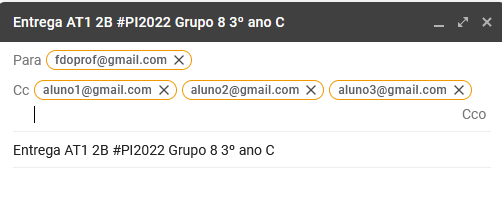
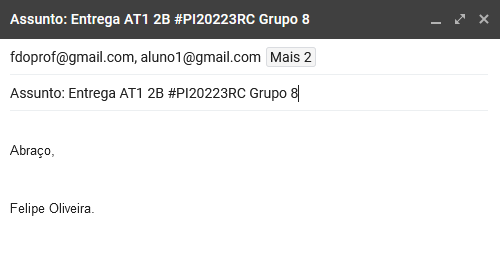
Atualuzação de envio e datas

diff --git a/courses/pi/index.md b/courses/pi/index.md
@@ -16,13 +16,13 @@ Atenção para as informações que constam no roteiro simplificado (veja em **d
 
 Os arquivos deverão ser enviados para o e-mail **fdoprof@gmail.com** colocando a seguinte informação no assunto do e-mail:
 
-Assunto: Entrega AT_N XB #PI2022 GRUPO SERIE
+Assunto: Entrega AT_N XB #PI2022SERIE GRUPO 
 
-Onde AT_N você irá substituir pelo número da atividade (e.g. AT1, AT2, AT3 ou ATF), XB você irá substituir pelo bimestre atual (e.g. 1B, 2B, 3B ou 4B), GRUPO você irá substituir pelo seu grupo e SERIE você irá substituir por sua série.
+Onde AT_N você irá substituir pelo número da atividade (e.g. AT1, AT2, AT3 ou ATF), XB você irá substituir pelo bimestre atual (e.g. 1B, 2B, 3B ou 4B), SERIE você irá substituir por sua série (2RB, 3RA ou 3RB) e  GRUPO você irá substituir pelo seu grupo.
 
 Por exemplo, o grupo 8 do 3º ano C que está no segundo bimestre que fez a atividade 1 irá enviar:
 
-**Assunto: Entrega AT1 2B #PI2022 Grupo 8 3º ano C** 
+**Assunto: Entrega AT1 2B #PI20223RC Grupo 8** 
 
 **Dica de segurança:** Ao realizar o envio da seu documento, realize também o envio para os demais participantes do seu grupo. Utilize o recurso **com cópia para (CC)** no mesmo envio que será realizado para o professor.
 
@@ -31,8 +31,8 @@ Exemplo de envio:
 
 <br/>
 ## Datas Importantes
-* **<s>06/05/2022</s> 10/05/2022 - Entrega 1ª AT**: Introdução.
-* **27/05/2022 - Entrega 2ª AT**: Final da Introdução. Inicio Justificativa e Motivação.
+* **<s>06/05/2022</s> <s>10/05/2022</s> - Entrega 1ª AT**: Introdução.
+* **<s>27/05/2022</s> 30/05/2022 - Entrega 2ª AT**: Final da Introdução. Inicio Justificativa e Motivação.
 * **23/06/2022 - Entrega 3ª AT**: Introdução, Justificativa e Objetivos.
 
 <br/>
